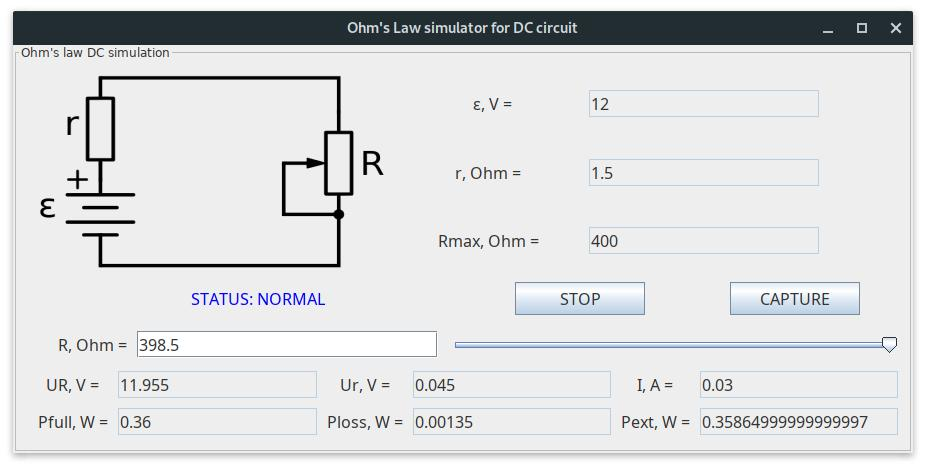
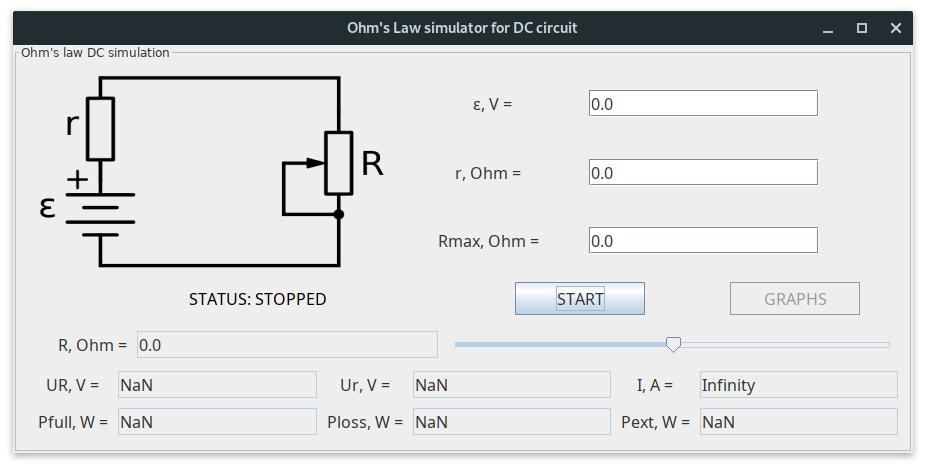
Add graphics printing. Bug fixes. All work done. Add screens

diff --git a/src/gui/app/phys/PhysGui.java b/src/gui/app/phys/PhysGui.java
@@ -8,8 +8,6 @@ import ohm.low.phys.base.Potentiometer;
 
 import javax.imageio.ImageIO;
 import javax.swing.*;
-import javax.swing.event.DocumentEvent;
-import javax.swing.event.DocumentListener;
 import java.awt.*;
 import java.awt.event.ActionEvent;
 import java.awt.event.ActionListener;
@@ -18,7 +16,7 @@ import java.io.File;
 import java.io.IOException;
 
 public class PhysGui extends JFrame {
-    private enum Status {STOPPED, ACTIVE};
+    private enum Status {STOPPED, ACTIVE}
     private Status status = Status.STOPPED;
 
     private static final int SLIDER_MAX = 10_000_000;
@@ -47,18 +45,27 @@ public class PhysGui extends JFrame {
     private DCPowerSupply powerSupply;
     private DCPowerSupplyConnection circuit;
 
+    private JFrame graphsFrame = new JFrame();
+
     /**
-     * Creates GUI of interactive Ohm's law simulator control panel
+     * Creates GUI for interactive Ohm's law simulator control panel
      */
     public PhysGui() {
         super("Ohm's Law simulator for DC circuit");
+
         Image img = new ImageIcon("img/ico.png").getImage();
         setIconImage(img);
         setTitle("Ohm's Law simulator for DC circuit");
 
+        graphsFrame.setDefaultCloseOperation(DISPOSE_ON_CLOSE);
+        graphsFrame.setVisible(false);
+        graphsFrame.setIconImage(img);
+        graphsFrame.setTitle("Ohm's Law simulator graphs");
+
         loadImage();
         fillFieldsZeroes();
         updateModeButton();
+        captureButton.setEnabled(false);
         initActionHandling();
         setLabelStopped();
 
@@ -66,7 +73,7 @@ public class PhysGui extends JFrame {
         setDefaultCloseOperation(EXIT_ON_CLOSE);
         setContentPane(mainPanel);
         pack();
-        centring();
+        centring(this);
         setVisible(true);
     }
 
@@ -93,10 +100,10 @@ public class PhysGui extends JFrame {
     /**
      * Places frame to the screen center
      */
-    private void centring() {
+    private static void centring(JFrame frame) {
         Dimension dim = Toolkit.getDefaultToolkit().getScreenSize();
-        setLocation(dim.width / 2 - getWidth() / 2,
-                dim.height / 2 - getHeight() / 2);
+        frame.setLocation(dim.width / 2 - frame.getWidth() / 2,
+                dim.height / 2 - frame.getHeight() / 2);
     }
 
     /**
@@ -142,7 +149,7 @@ public class PhysGui extends JFrame {
                     stopSimulation();
                     break;
                 case "doCapture":
-                    doCapture();
+                    showGraphs();
                     break;
             }
         };
@@ -172,8 +179,9 @@ public class PhysGui extends JFrame {
     private void stopSimulation() {
         status = Status.STOPPED;
         updateModeButton();
+        captureButton.setEnabled(false);
 
-        setLabelStopped();;
+        setLabelStopped();
 
         emfField.setEditable(true);
         extResistanceField.setEditable(true);
@@ -188,40 +196,37 @@ public class PhysGui extends JFrame {
     private void startSimulation() {
         status = Status.ACTIVE;
         updateModeButton();
-
-        String oldEmf = emfField.getText();
-        String oldInternalR = intResistanceField.getText();
-        String oldExternalRmax = extResistanceField.getText();
+        captureButton.setEnabled(true);
 
         double emf;
         double internalR;
         double externalRmax;
 
         try {
-            emf = Double.parseDouble(oldEmf.trim().replace(',', '.'));
+            emf = Double.parseDouble(emfField.getText().trim().replace(',', '.'));
         } catch (NumberFormatException e) {
             showWrongArgumentMessage("Wrong EMF value");
-            emfField.setText(oldEmf);
+            emfField.setText("0.0");
             stopSimulation();
             return;
         }
 
         try {
-            internalR = Double.parseDouble(oldInternalR.trim().replace(',', '.'));
+            internalR = Double.parseDouble(intResistanceField.getText().trim().replace(',', '.'));
             powerSupply = new DCPowerSupply(emf, new FixedResistor(internalR));
         } catch (Exception e) {
             showWrongArgumentMessage("Wrong internal resistance value");
-            intResistanceField.setText(oldInternalR);
+            intResistanceField.setText("0.0");
             stopSimulation();
             return;
         }
 
         try {
-            externalRmax = Double.parseDouble(oldExternalRmax.trim().replace(',', '.'));
+            externalRmax = Double.parseDouble(extResistanceField.getText().trim().replace(',', '.'));
             externalResistor = new Potentiometer(externalRmax);
         } catch (Exception e) {
             showWrongArgumentMessage("Wrong external resistance value");
-            extResistanceField.setText(oldExternalRmax);
+            extResistanceField.setText("0.0");
             stopSimulation();
             return;
         }
@@ -250,8 +255,15 @@ public class PhysGui extends JFrame {
     /**
      * Capture status of the simulation
      */
-    private void doCapture() {
-        // TODO
+    private void showGraphs() {
+        if (circuit.getCurrent() == Double.POSITIVE_INFINITY) {
+            showWrongArgumentMessage("Can't create graphs for this parameters");
+            return;
+        }
+        graphsFrame.setContentPane(new GraphsCreator(circuit).getContainer());
+        graphsFrame.pack();
+        centring(graphsFrame);
+        graphsFrame.setVisible(true);
     }
 
     /**
@@ -275,7 +287,6 @@ public class PhysGui extends JFrame {
      * Handle resistance field change
      */
     private void handleResistanceFieldChange() {
-        System.out.println("Handel");
         if (externalResistor == null)
             return;
 
@@ -283,7 +294,6 @@ public class PhysGui extends JFrame {
         try {
             currentResistance = Double.parseDouble(currentExtResistance.getText().trim().replace(',', '.'));
             externalResistor.setResistance(currentResistance);
-            System.out.println(externalResistor.getResistance());
         } catch (Exception e) {
             showWrongArgumentMessage("Wrong external resistance value");
             return;
@@ -296,6 +306,7 @@ public class PhysGui extends JFrame {
      * Update fields values after change
      */
     private void updateAll() {
+
         if (circuit.isShortCircuit()) {
             setLabelActiveShortCircuit();
         } else {
@@ -310,16 +321,25 @@ public class PhysGui extends JFrame {
         pExtField.setText(Double.toString(circuit.getExternalPower()));
     }
 
+    /**
+     * Set status label to stop state
+     */
     private void setLabelStopped() {
         statusLabel.setText(LABEL_STOPPED);
         statusLabel.setForeground(Color.black);
     }
 
+    /**
+     * Set status label to active state
+     */
     private void setLabelActiveNormal() {
         statusLabel.setText(LABEL_ACTIVE_NORMAL);
         statusLabel.setForeground(Color.blue);
     }
 
+    /**
+     * Set status label to short circuit state
+     */
     private void setLabelActiveShortCircuit() {
         statusLabel.setText(LABEL_ACTIVE_SHORT_CIRCUIT);
         statusLabel.setForeground(Color.red);

diff --git a/src/gui/app/phys/GraphsCreator.java b/src/gui/app/phys/GraphsCreator.java
@@ -1,0 +1,122 @@
+package gui.app.phys;
+
+import ohm.low.phys.DCPowerSupplyConnection;
+import ohm.low.phys.Exception.WrongPhysicsParameterException;
+import ohm.low.phys.base.Potentiometer;
+import org.knowm.xchart.QuickChart;
+import org.knowm.xchart.XChartPanel;
+
+import javax.swing.*;
+import java.awt.*;
+
+class GraphsCreator {
+    private DCPowerSupplyConnection circuit;
+    private Potentiometer potentiometer;
+
+    private double[] current;
+    private double[] uExt;
+    private double[] uInt;
+    private double[] pFull;
+    private double[] pLoss;
+    private double[] pExt;
+
+    private JPanel uPanel;
+    private JPanel pPanel;
+    private Container container = new Container();
+
+
+    /**
+     * Creates object to print graphs describe circuit
+     * @param connection Circuit with potentiometer connected as extenral resistor
+     */
+    GraphsCreator(DCPowerSupplyConnection connection) throws IllegalArgumentException {
+        if (! (connection.getExternalResistor() instanceof Potentiometer)) {
+            throw new IllegalArgumentException("Wrong argument: External resistor not a potentiometer");
+        }
+
+        var pTemp = (Potentiometer) connection.getExternalResistor();
+        try {
+            potentiometer = new Potentiometer(pTemp.getMaxResistance());
+        } catch (WrongPhysicsParameterException e) {
+            throw new RuntimeException();
+        }
+
+        circuit = new DCPowerSupplyConnection(connection.getPowerSupply(), potentiometer);
+
+        calculateValues();
+        createPanels();
+        container.setLayout (new GridLayout(1, 2, 10, 10));
+
+        container.add(uPanel, BorderLayout.WEST);
+        container.add(pPanel, BorderLayout.EAST);
+    }
+
+    private void calculateValues() {
+        double resistanceValue = potentiometer.getMaxResistance();
+
+        int STEPS;
+        if (resistanceValue < 1000) {
+            STEPS = 1000;
+        } else if (resistanceValue < 5000) {
+            STEPS = 5000;
+        } else if (resistanceValue < 10000){
+            STEPS = 20000;
+        } else {
+            STEPS = 40000;
+        }
+
+        current = new double[STEPS];
+        uExt = new double[STEPS];
+        uInt = new double[STEPS];
+        pFull = new double[STEPS];
+        pLoss = new double[STEPS];
+        pExt = new double[STEPS];
+
+        for (int i = 0; i < STEPS; ++i) {
+            double position = (double) i / STEPS * 100;
+            try {
+                potentiometer.setPosition(position);
+            } catch (WrongPhysicsParameterException e) {
+                throw new RuntimeException(e);
+            }
+
+            if (circuit.getCurrent() == Double.POSITIVE_INFINITY) {
+                try {
+                    potentiometer.setResistance(potentiometer.getResistance() + 0.000001);
+                } catch (WrongPhysicsParameterException e) {
+                    throw new RuntimeException(e);
+                }
+            }
+
+            current[i] = circuit.getCurrent();
+            uExt[i] = circuit.getExternalResistorVoltage();
+            uInt[i] = circuit.getInternalResistorVoltage();
+            pFull[i] = circuit.getFullPower();
+            pExt[i] = circuit.getExternalPower();
+            pLoss[i] = circuit.getPowerLoss();
+        }
+    }
+
+    private void createPanels() {
+        var uChart = QuickChart.getChart("U(I)",
+                "I, A",
+                "U, V",
+                new String[] {"Uexternal", "Uinternal"},
+                current,
+                new double[][] { uExt, uInt });
+        uPanel = new XChartPanel<>(uChart);
+
+        var pChart = QuickChart.getChart("P(I)",
+                "I, A",
+                "P, Watt",
+                new String[]{"Pexternal", "Ploss", "Pfull"},
+                current,
+                new double[][] { pExt, pLoss, pFull });
+        pPanel = new XChartPanel<>(pChart);
+    }
+
+    Container getContainer() {
+        return container;
+    }
+
+}
